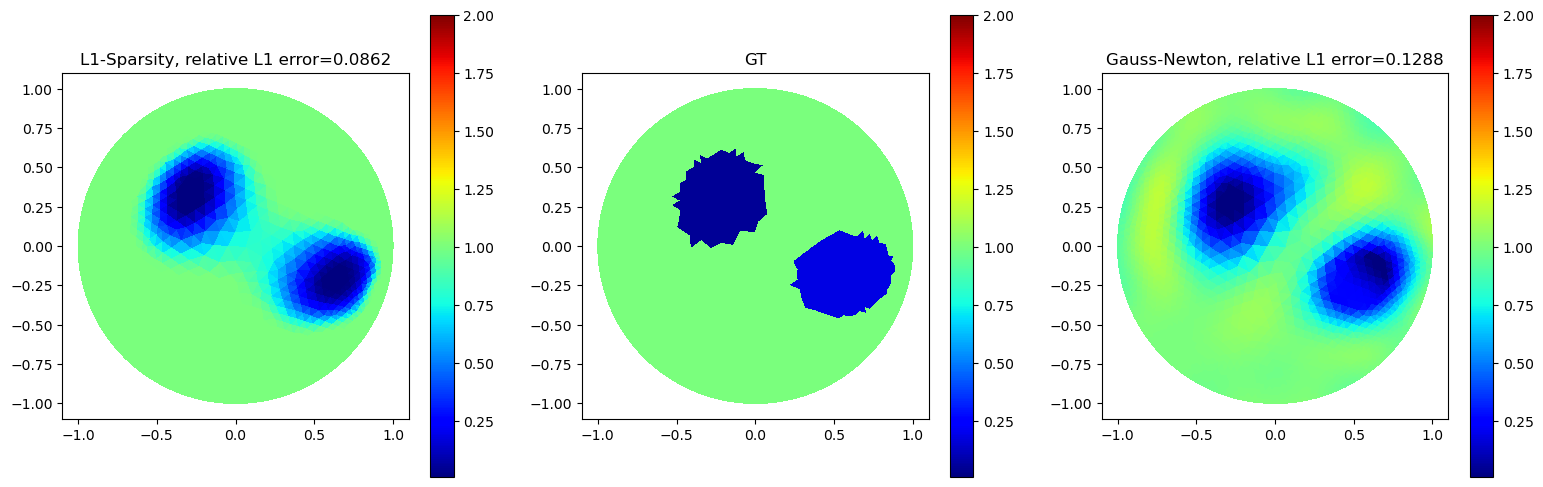
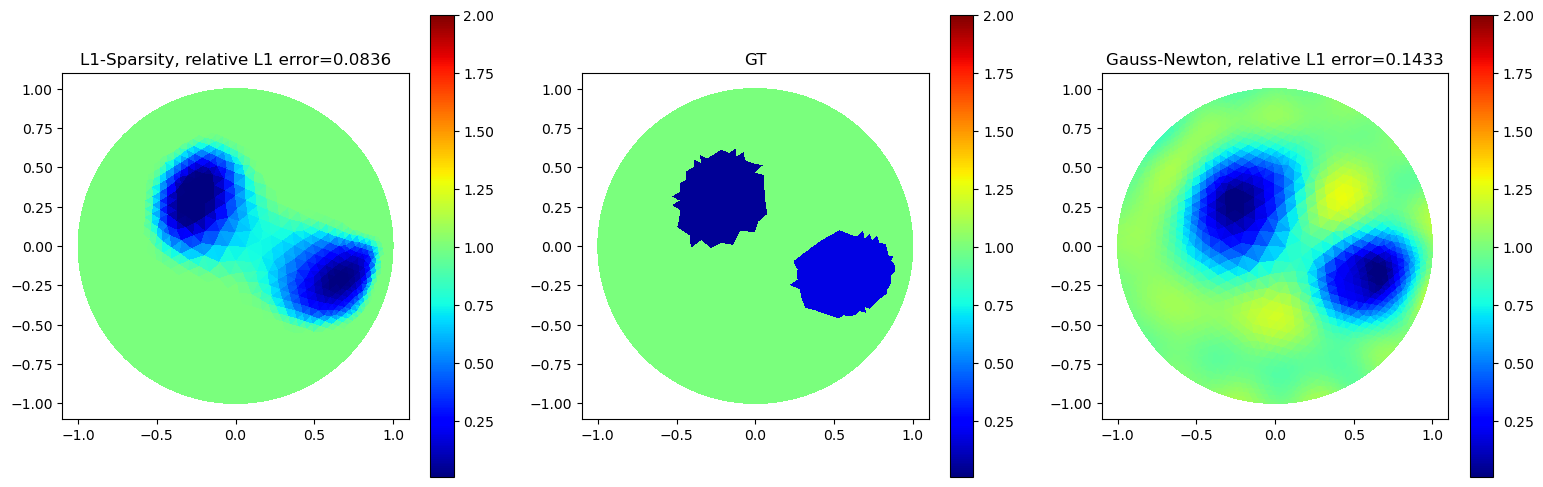
Add all against 1 + new example

diff --git a/reconstruct_simulated_data.py b/reconstruct_simulated_data.py
@@ -25,14 +25,13 @@ def compute_relative_l1_error(sigma_rec, sigma_gt):
     
     return diff/norm 
 
-
-
 device = "cuda"
 
 L = 16
 backCond = 1.0
 
-Injref = np.concatenate([current_method(L=L, l=L//2, method=1,value=1.5), current_method(L=L, l=L, method=2,value=1.5)])
+#Injref = np.concatenate([current_method(L=L, l=L//2, method=1,value=1.5), current_method(L=L, l=L, method=2,value=1.5)])
+Injref = current_method(L=L, l=L-1, method=5,value=1.5)
 
 z = 1e-6*np.ones(L)
 solver = EIT(L, Injref, z, backend="Scipy", mesh_name="data/KIT4_mesh_coarse.msh")
@@ -63,8 +62,8 @@ Umeas = Umeas + np.sqrt(var_meas) * np.random.normal(size=Umeas.shape)
 l1 = 0.01 # smallest possible conductivity 
 l2 = 4.0 # largest conductivity 
 
-alpha = 0.001 #0.0001
-kappa = 0.03
+alpha = 0.00135 #0.0001
+kappa = 0.0285
 
 l1_reconstructor = L1Sparsity(eit_solver=solver,
                             backCond=backCond,
@@ -106,7 +105,7 @@ sigma = gauss_newton_solver.reconstruct(Umeas=Umeas_flatten,
                                         sigma_init=sigma_init,
                                         num_steps=10,
                                         R=R, 
-                                        lamb=0.6, #8e-4,
+                                        lamb=0.2, #8e-4,
                                         GammaInv=GammaInv,
                                         clip=[0.001, 3.0],
                                         verbose=True)

diff --git a/src/utils.py b/src/utils.py
@@ -46,6 +46,7 @@ def current_method(L,l, method=1, value=1):
         2. 1 and -1 in adjacent electrodes.
         3. 1 in one electrode and -1/(L-1) for the rest.
         4. For measurement k, we have: (sin(k*2*pi/16) sin(2*k*2*pi/16) ... sin(16*k*2*pi/16)).
+        5. All against 1 
 
     :Example:
 
@@ -104,6 +105,15 @@ def current_method(L,l, method=1, value=1):
             for k in range(L): I[k]=I[k]*np.sin((i+1)*(k+1)*2*np.pi/L) 
             I_all.append(I)
 
+    if method==5:
+        for i in range(l):
+            if i <= L-1:
+                I = np.zeros(L)
+                I[0] = -value
+                I[i+1] = value
+                I_all.append(I)
+            else:
+                print("This method only accept until L-1 currents, returning L-1 currents.")
             
     if l==1: I_all=I_all[0]
     return np.array(I_all)

diff --git a/README.md b/README.md
@@ -62,7 +62,7 @@ conda install pytorch==2.3.1 torchvision==0.18.1 torchaudio==2.3.1 pytorch-cuda=
 
 ## Example 
 
-The script `reconstruct_simulated_data.py` contains an example to reconstruct from (noisy) simulated measurements with both the L1-Sparsity algorithm and a Gauss-Newton method with a Gaussian smoothness regulariser. 
+The script `reconstruct_simulated_data.py` contains an example to reconstruct from (noisy) simulated measurements with both the L1-Sparsity algorithm and a Gauss-Newton method with a Gaussian smoothness regulariser. We use 16 electrodes and apply 15 current injections. The current injection are of the form ``All against 1``, i.e., we apply current between electrodes 1-2,1-3,1-4, ...,1-16. In addition, we add 1% relative Gaussian noise to the measurements. 
 
 ![Reconstruction](imgs/example_reconstruction.png "Reconstruction")
 
